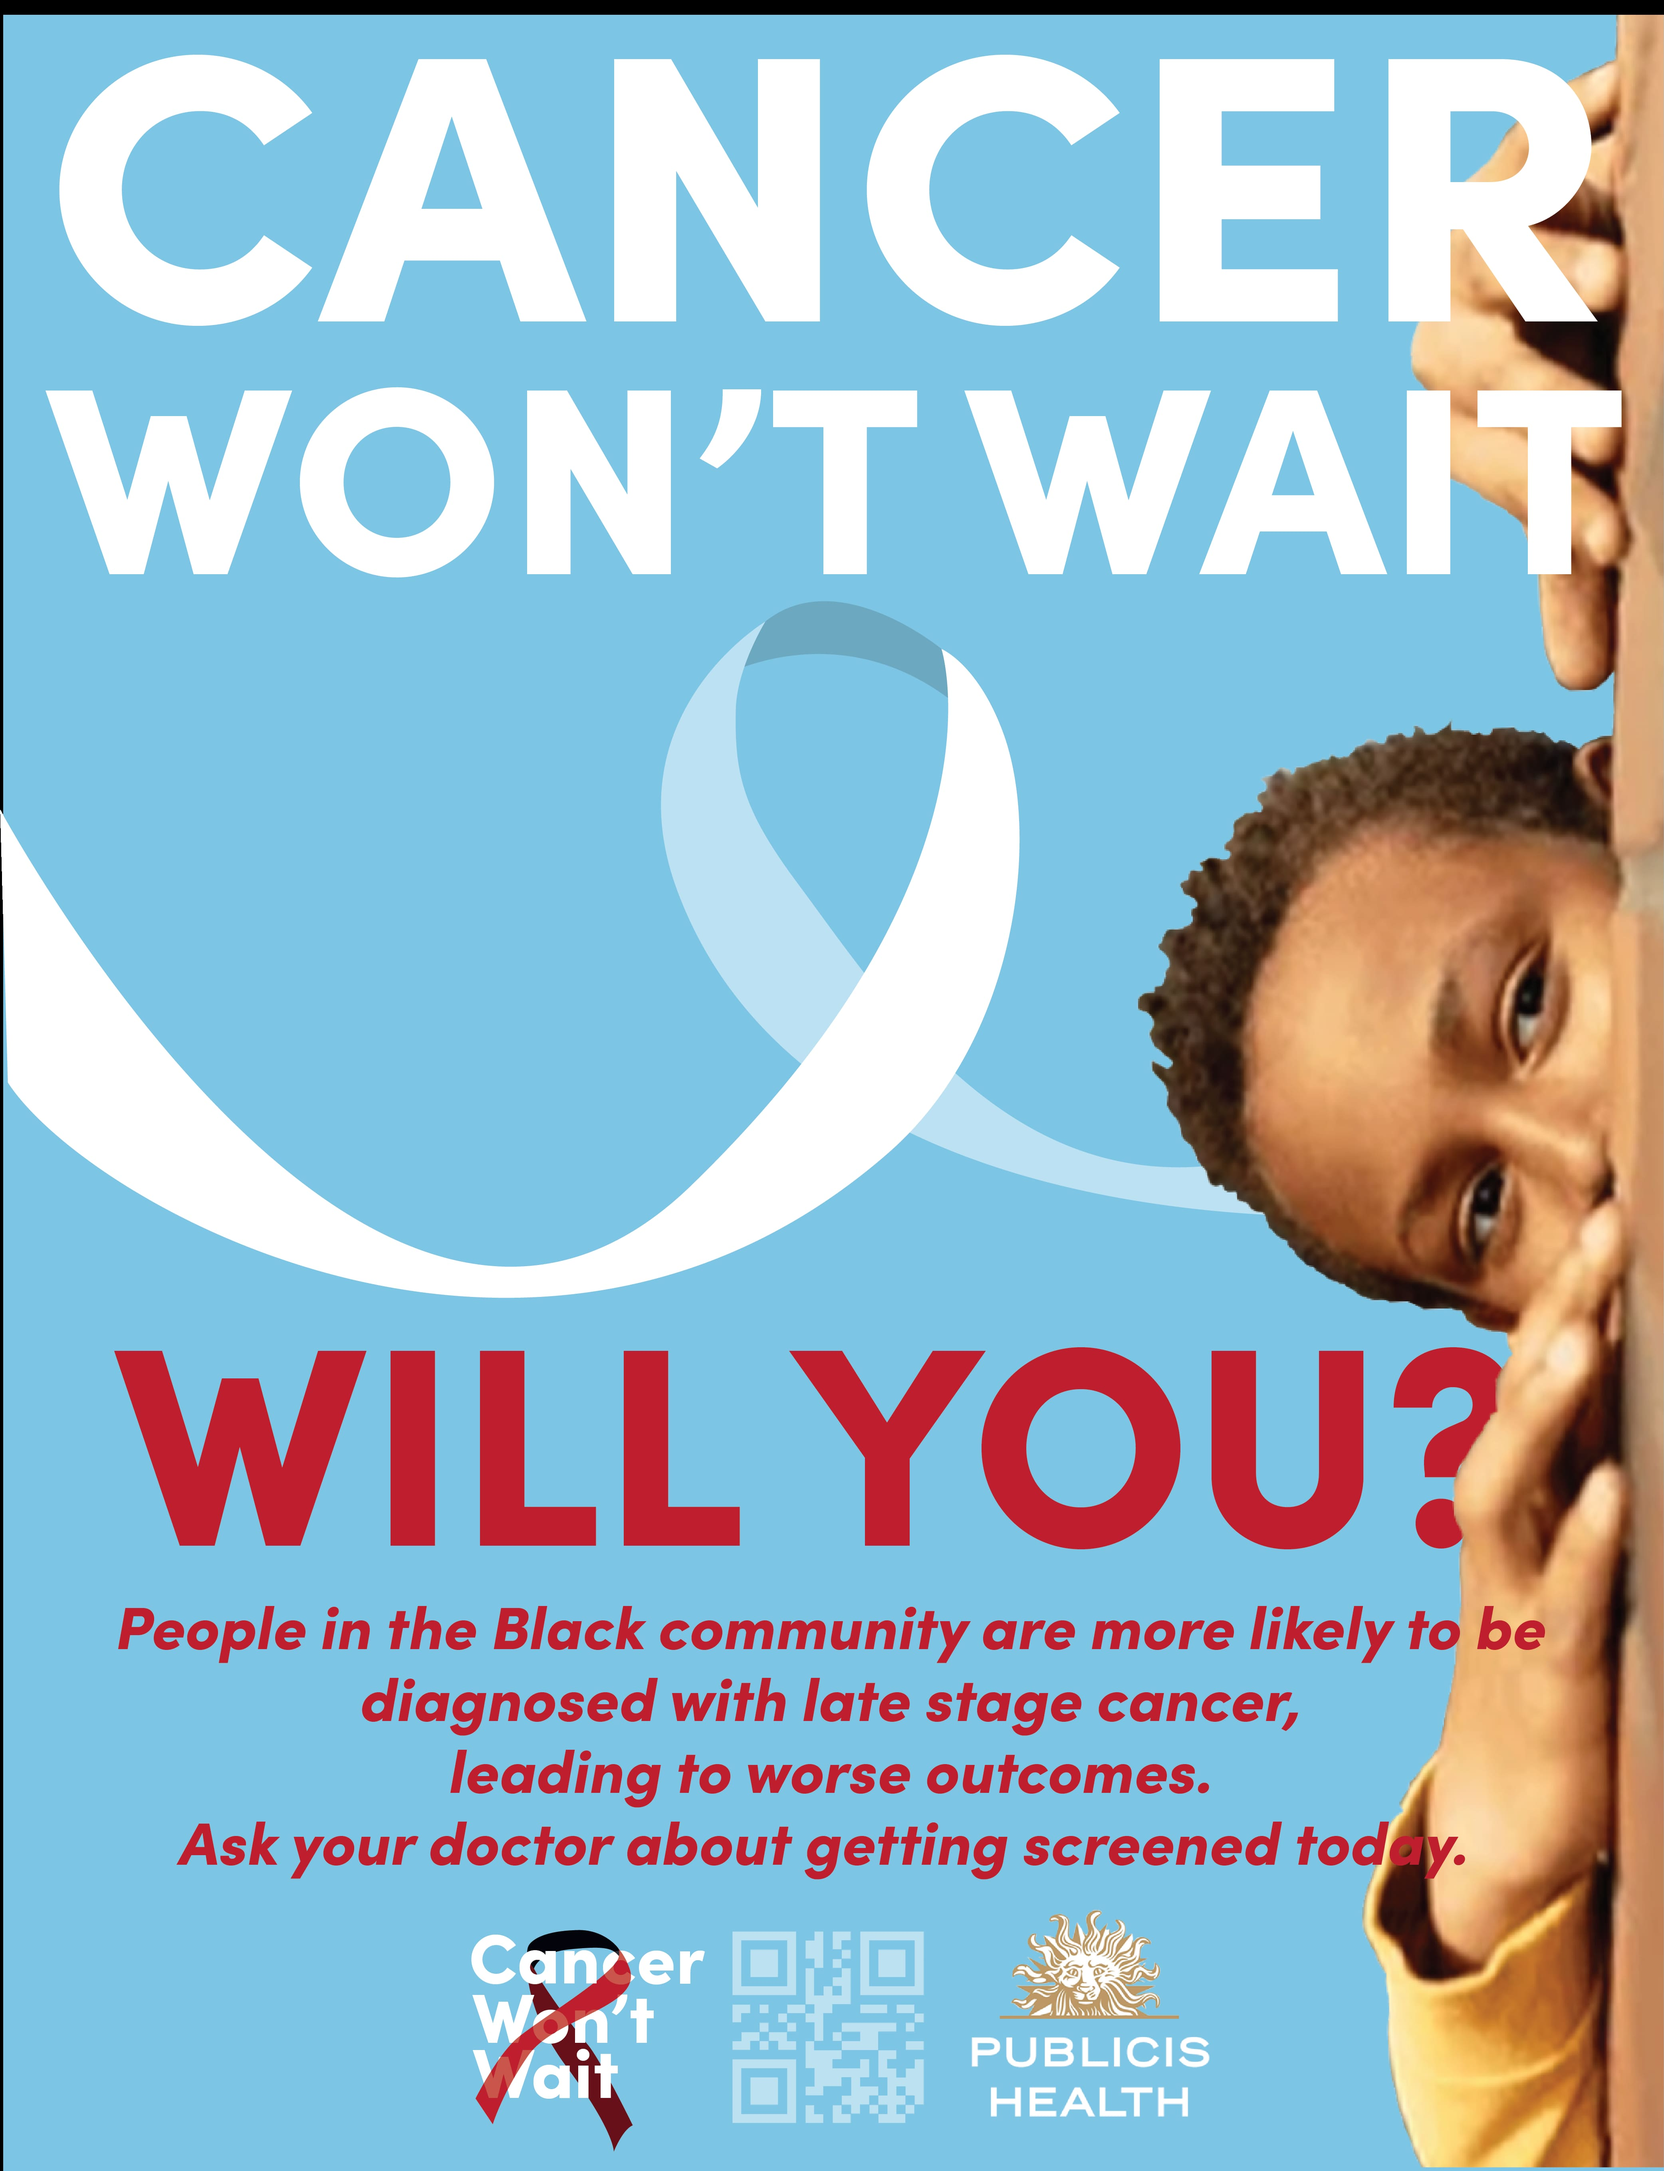
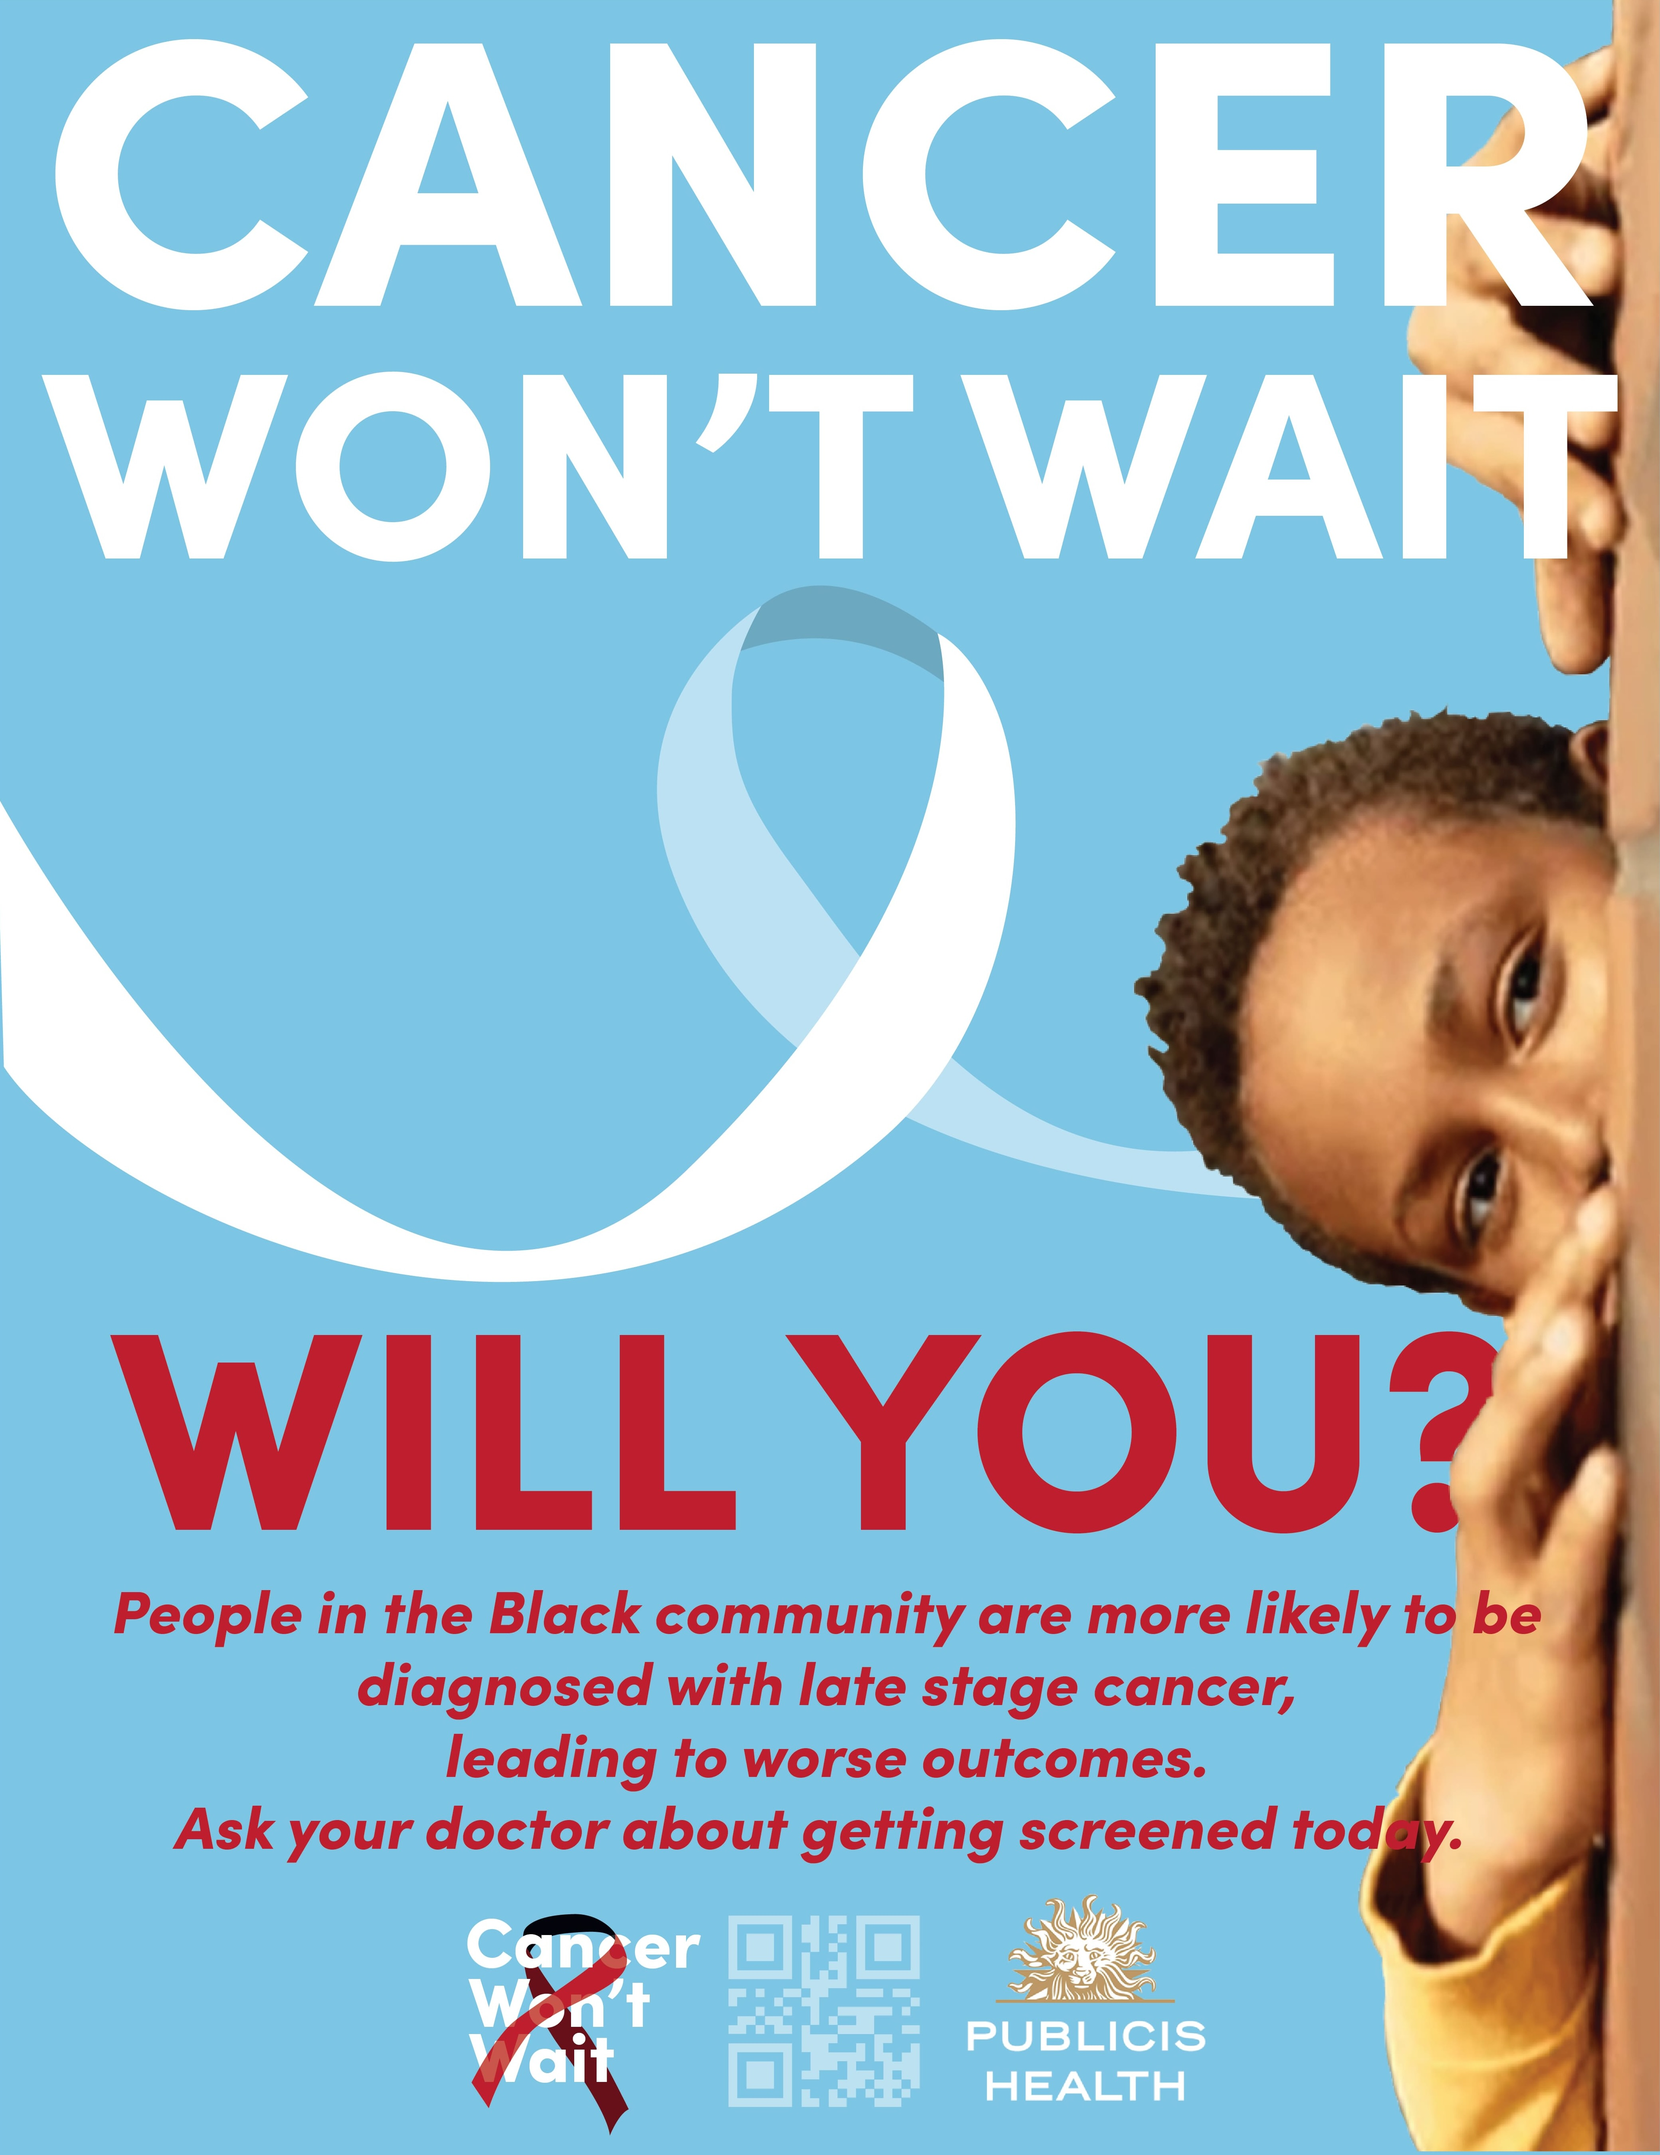
Bump C8 max-height to 540px

diff --git a/campaigns.html b/campaigns.html
@@ -88,7 +88,7 @@
         </div>
 
         <div class="img-grid-2" style="align-items: center;">
-          <img src="images_1/C8.png" alt="Cancer Won't Wait — Subway Ad Design" style="max-height: 480px; object-fit: contain;">
+          <img src="images_1/C8.png" alt="Cancer Won't Wait — Subway Ad Design" style="max-height: 540px; object-fit: contain;">
           <img src="images_1/C10.jpg" alt="Cancer Won't Wait — Instagram Phone" style="max-height: 480px; object-fit: contain;">
         </div>
 
